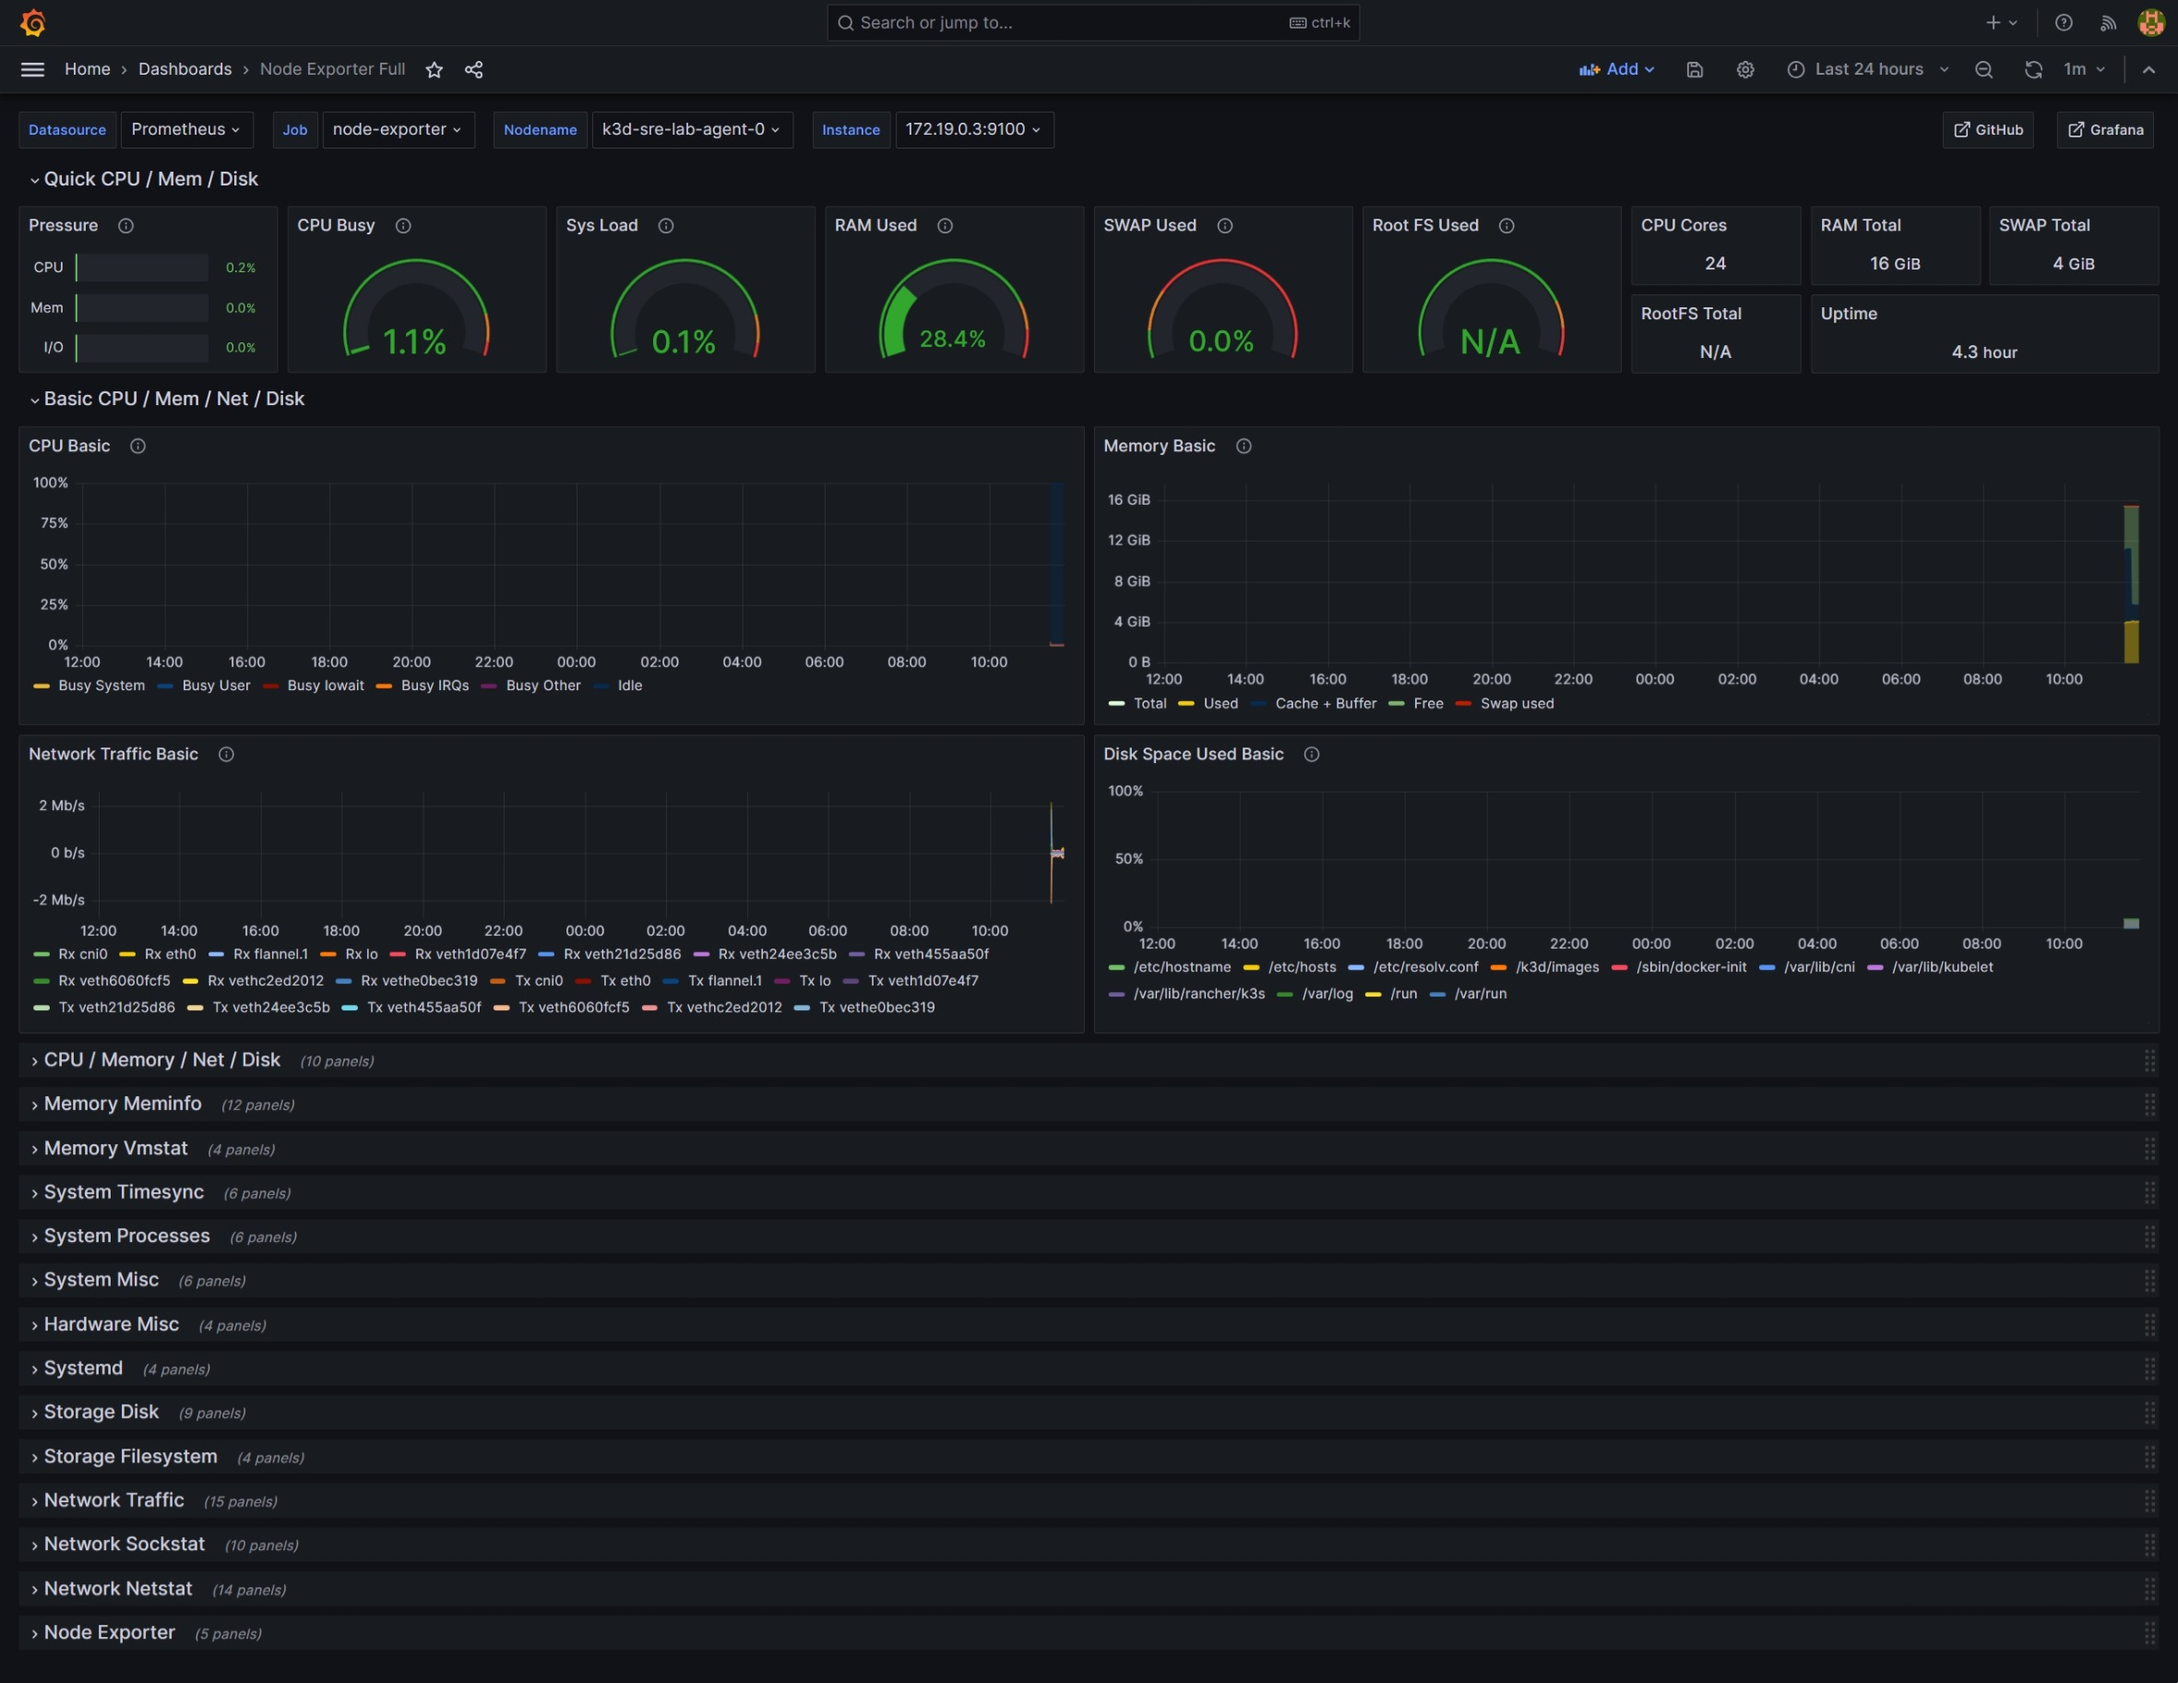
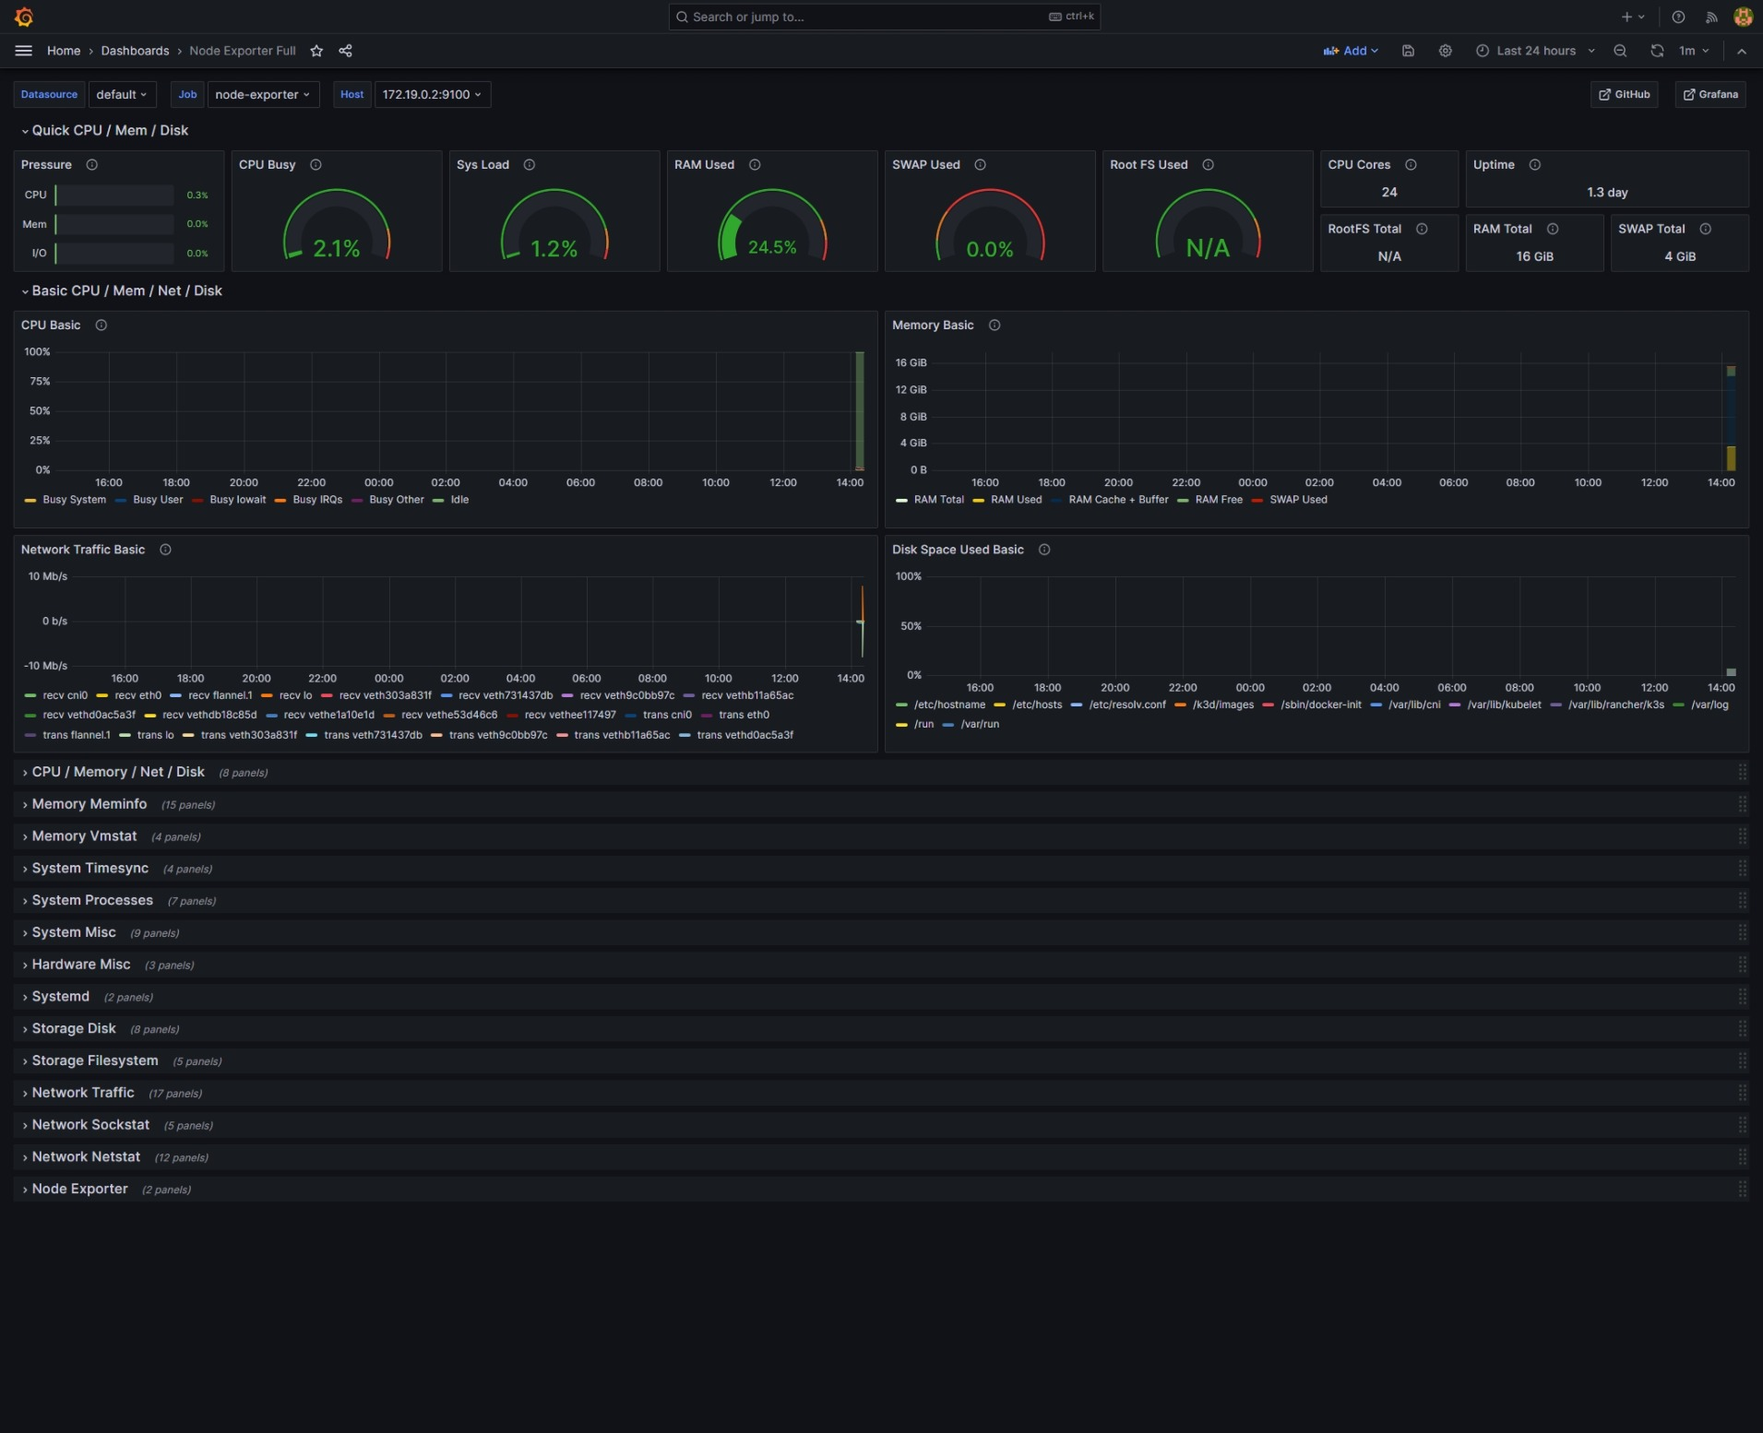
docs: captura de Grafana con el dashboard provisionado desde Git

diff --git a/README.md b/README.md
@@ -59,7 +59,8 @@ Las cinco Applications gestionadas por GitOps, todas en estado `Synced` y `Healt
 
 ### Grafana — Dashboard
 
-Métricas de la infraestructura Kubernetes en Grafana.
+*Node Exporter Full* tras un rebuild desde cero: el datasource y el dashboard se provisionan
+desde Git, sin importar nada a mano.
 
 ![Grafana Dashboard](docs/screenshots/grafana-dashboard.jpeg)
 
